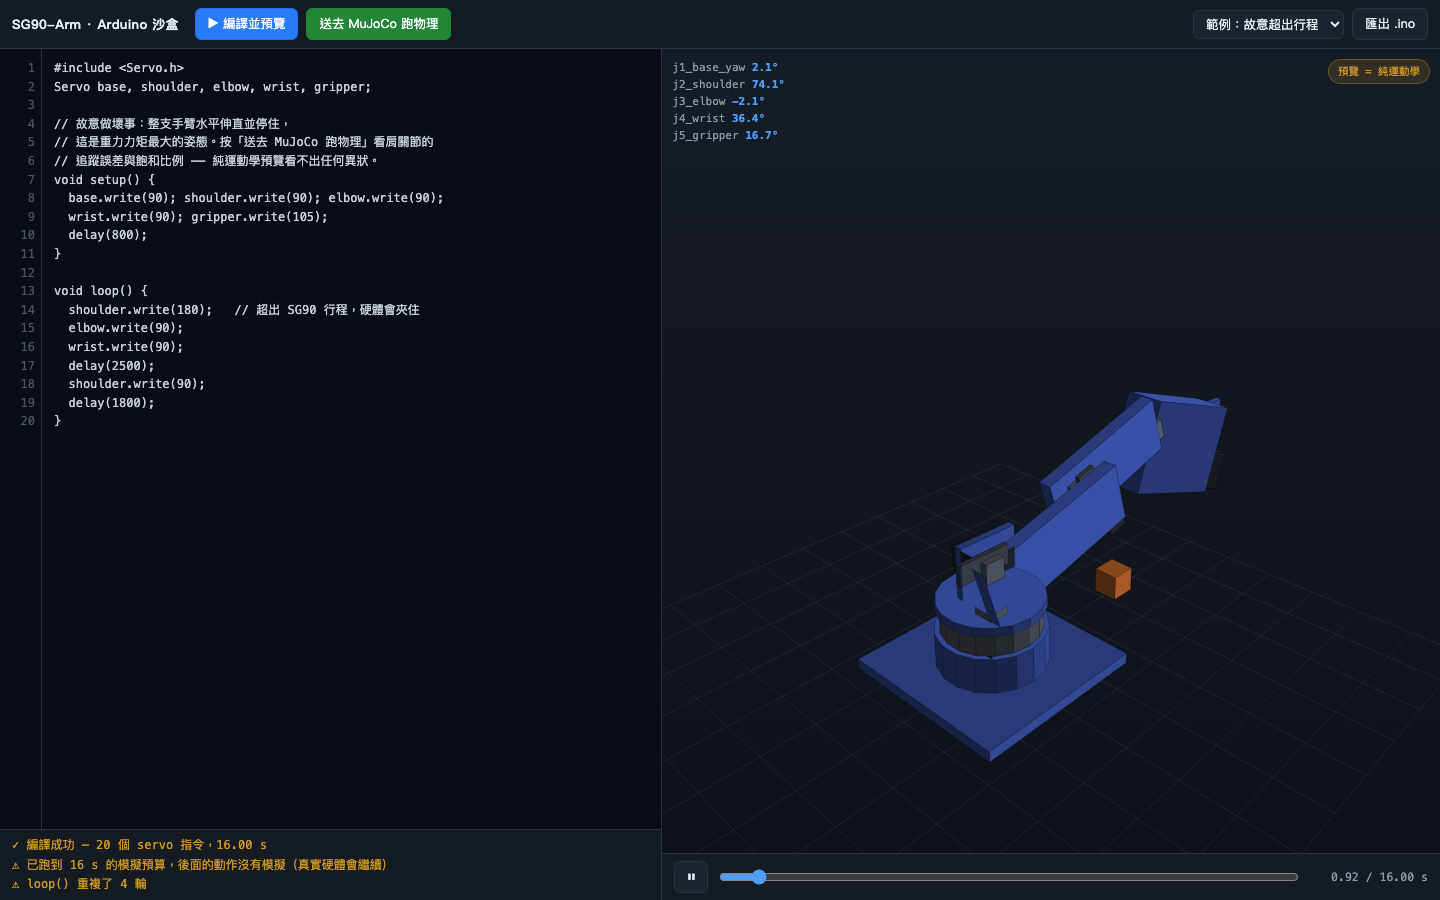
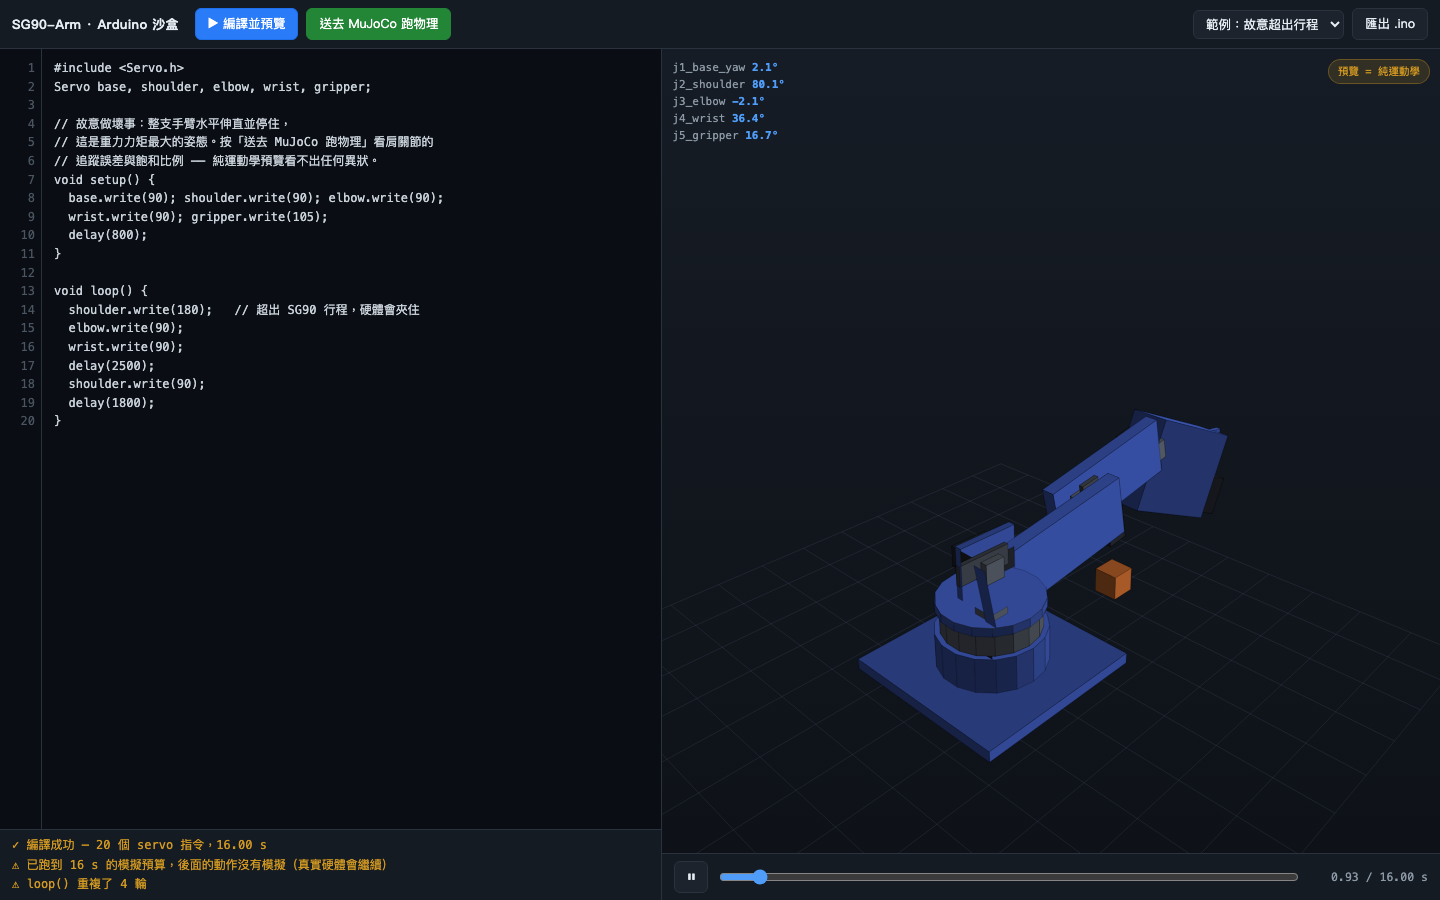
B3 FT5425BL URDF/MJCF：極限是機構與舵機的交集
j1 迴轉 舵機綁住 ±90、j2 肩 機構綁住 ±75、j3 肘 舵機綁住 ±90。
記錄「哪一邊綁住」比記錄數字重要：機構綁住＝改幾何可放寬，
舵機綁住＝只能重新索引舵盤（拿一端換另一端）。

#49 掃出的肩關節行程連續三次是 0（三個不同原因）
- 跨接槽用叉臂半邊長 23.9 挖，註解寫 half-diagonal，真值 29.7
- 舵機截面 X/Y 寫反，零位相交 4667mm³
- 耳片掃掠半徑 41.5 > 肩軸離轉盤面的 36
三者共通：都是拍出來的數字。已全部改為推導。
另修結構認知錯誤：耳片在關節下方也接起來，使轉盤變 3 個分離實體；
真實 U 型接頭是舵機上方合攏、下方留自由板。

#50 docstring 宣稱 MuJoCo 有關節速度上限（它沒有）
改由 B4 迴圈執行，並加檢查驗 MAX_RADPS 有被匯出——
只寫在註解裡的限制等於不存在。

新增 B3 驗證層 27 項（變異測試 5/5）；全套 391/391。

Changed region(s): [[0.7188, 0.4356, 0.875, 0.6222], [0.7188, 0.6222, 0.75, 0.6533]]

diff --git a/servo-arm/report.html b/servo-arm/report.html
@@ -991,7 +991,7 @@ j4 12.96°→<strong>8.70°</strong>、j5 10.27°→<strong>8.68°</strong>。
 ../.venv/bin/python mutation_check.py     # 驗證套件本身有效</code></pre>
 
 <h2 id="failures">失敗紀錄</h2>
-<p class="lead">前 22 項。#23–#33 由驗證系統挖出，記在<a href="#vv">上一節</a>；#34 是替第二支手臂做扭矩預算時挖出的，記在<a href="#torque">扭矩包絡</a>那節；<strong>#35–#43 是做 NEMA 17 步進模擬與韌體時挖出的</strong>，記在 <a href="#nema17">NEMA 17 手臂</a>那節；<strong>#44–#47 是查證致動器資料時挖出的</strong>，記在 <a href="#actuators">致動器資料查證</a>那節；<strong>#48 是第三支手臂定尺寸時回頭發現的、關於第一支手臂的事</strong>，記在 <a href="#ft5425bl">FT5425BL 手臂</a>那節——其中四個是連續的錯模型，每個都「會跑、會印出合理的數字」。標 <span class="tag silent">靜默</span> 的是<strong>不會報錯</strong>的錯誤——
+<p class="lead">前 22 項。#23–#33 由驗證系統挖出，記在<a href="#vv">上一節</a>；#34 是替第二支手臂做扭矩預算時挖出的，記在<a href="#torque">扭矩包絡</a>那節；<strong>#35–#43 是做 NEMA 17 步進模擬與韌體時挖出的</strong>，記在 <a href="#nema17">NEMA 17 手臂</a>那節；<strong>#44–#47 是查證致動器資料時挖出的</strong>，記在 <a href="#actuators">致動器資料查證</a>那節；<strong>#48–#50 是第三支手臂上挖出的</strong>（#48 還是回頭關於第一支手臂的），記在 <a href="#ft5425bl">FT5425BL 手臂</a>那節——其中四個是連續的錯模型，每個都「會跑、會印出合理的數字」。標 <span class="tag silent">靜默</span> 的是<strong>不會報錯</strong>的錯誤——
 工具鏈照樣產出看起來完全正常的結果，只有量測才抓得到。這類佔了一半以上。</p>
 
 <div class="card fail">
@@ -1987,7 +1987,7 @@ T7 黃金回歸<strong>18/18 全過</strong>。但實際上酬載舉高變了 0.
 不是讓它假裝通過。</strong></p>
 </div>
 
-<h2 id="ft5425bl">第三支手臂：FT5425BL 標準舵機（B1 尺寸決策、B2 CAD）</h2>
+<h2 id="ft5425bl">第三支手臂：FT5425BL 標準舵機（B1 尺寸、B2 CAD、B3 URDF／MJCF）</h2>
 <p class="lead">扭矩預算用「維持與 SG90 相同的扭矩佔比」把伸距外推到 306 mm。
 實際把靜力算一遍——<strong>那個伸距空載就用掉連續額定的 88%</strong>。
 問題不在算術，在於<strong>那個「相同的佔比」本身指的是什麼</strong>。</p>
@@ -2110,6 +2110,71 @@ FT5425BL 只有 67.6 g：</p>
 <p><strong>67.9% 連續額定</strong>（B1 用估計質量算的是 69.9%）。
 實測連桿比估計重 10%，但質心比「連桿中點」的假設更靠內
 （上臂 42.6 mm 而非 52.5），兩者相抵之後比原估計還好一點。空載 43.7%。</p>
+
+<h3>B3 URDF／MJCF：極限有兩個作者</h3>
+<p>NEMA 17 那支的關節極限只有一個來源——步進沒有自身行程，機構就是極限。
+這支相反：<strong>舵機有硬性的 180°</strong>，怎麼樣都過不去。
+所以每個關節的極限是兩個獨立約束的<strong>交集</strong>：</p>
+<table>
+<tr><th style="width:130px">關節</th><th class="num">機構掃描</th><th class="num">舵機行程</th><th class="num">生效</th><th>綁住的是</th></tr>
+<tr><td>j1 迴轉</td><td class="num">±150°</td><td class="num">±90°</td><td class="num">±90°</td><td><strong>舵機</strong></td></tr>
+<tr><td>j2 肩</td><td class="num">±75°</td><td class="num">±90°</td><td class="num">±75°</td><td><strong>機構</strong></td></tr>
+<tr><td>j3 肘</td><td class="num">±95°</td><td class="num">±90°</td><td class="num">±90°</td><td><strong>舵機</strong></td></tr>
+</table>
+<p>取交集不是重點，<strong>記錄「哪一邊綁住」才是</strong>——兩者的意思相反：
+機構綁住代表<strong>改幾何可以放寬</strong>；舵機綁住代表<strong>幾何幫不上忙</strong>，
+只能重新索引舵盤，而那是拿一端換另一端。
+只報一個數字而不說是誰造成的，就會有人去加厚一面牆，
+想買一段舵機本來就不會給的行程。</p>
+
+<div class="card fail">
+<h4>#49 掃出來的肩關節行程是 0°——連續三次，三個不同原因 <span class="tag fixed">已修正</span></h4>
+<p>掃描把實體轉到干涉為止。前三次跑出來的肩關節範圍是
+<strong>[+5, −5]</strong>（負寬度）、然後 <strong>[0, 0]</strong>、再一次 <strong>[0, 0]</strong>。
+每一次都是不同的原因，而且每修好一個才看得見下一個：</p>
+<table>
+<tr><th style="width:210px">第幾次</th><th>根因</th></tr>
+<tr><td>一：[+5, −5]</td><td>跨接槽用叉臂的<strong>半邊長</strong>（23.9）挖，
+  註解卻寫「half-diagonal」——真值是 <strong>29.7</strong>，叉臂角落卡在輪轂實心區</td></tr>
+<tr><td>二：[0, 0]</td><td>零位就相交 <strong>4667 mm³</strong>：
+  舵機截面的 <strong>X/Y 寫反了</strong>（舵機 40.6 在 X、20.0 在 Y，
+  我寫成 X=26.8 裝不下、Y=46.6 撞耳片）</td></tr>
+<tr><td>三：[0, 0]</td><td>耳片往下伸 34.3，旋轉時最低點掃到軸下 <strong>41.5</strong>，
+  而肩軸只在轉盤面上 36——耳片掃到圓盤</td></tr>
+</table>
+<p>共通點：<strong>這三個數字全是我拍的</strong>，不是從它們要配合的東西推導出來的。
+改成推導之後：</p>
+<pre>YOKE_R      = √((SB_L/2+WALL)² + (SB_H/2+WALL)²)   叉臂在輪轂座標系掃出的圓盤
+HUB_REACH   = YOKE_R + 間隙 + 4                     耳片必須包過那個圓盤
+HUB_SWEPT_R = √((SB_L/2+WALL)² + HUB_REACH²)        耳片自己掃出的半徑
+Z_J2        = 轉盤面 + HUB_SWEPT_R + 1.5            肩軸高度</pre>
+<p>還有一個結構認知的錯誤：我把耳片在關節<strong>下方</strong>也接起來，
+於是叉臂沒有路徑往下接回轉盤——轉盤因此變成 3 個分離的實體。
+真實的伺服 U 型接頭是<strong>在舵機上方合攏、下方留兩片自由板</strong>，
+把跨接槽加上向下的開口才對。</p>
+</div>
+
+<div class="card fail">
+<h4>#50 docstring 宣稱了 MuJoCo 做不到的事 <span class="tag silent">靜默</span> <span class="tag fixed">已修正</span></h4>
+<p>MJCF 產生器的說明寫著速度上限「以關節速度限制放進去」。
+<strong>MuJoCo 沒有關節速度上限這種東西</strong>，而程式也確實沒寫進 XML——
+那句話是一個只存在於散文裡的限制。</p>
+<p>0.08 s/60° = 13.1 rad/s，在 190 mm 的手臂上是尖端 2.5 m/s。
+忽略它，模擬就會允許手臂做出舵機做不到的動作。</p>
+<p><strong>修法</strong>：說清楚 MuJoCo 放不下，改由 B4 的模擬迴圈執行——
+和步進的發步率上限放在同一個地方。並在 B3 加一條檢查驗
+<code>MAX_RADPS</code> 有被匯出，因為<strong>只寫在註解裡的限制等於不存在</strong>。</p>
+</div>
+
+<h4>B3 驗證層（27 項，變異測試 5/5）</h4>
+<p>刻意把幾條拆成兩句話，因為「數字對」和「關係對」不是同一件事：</p>
+<ul>
+<li>極限 = 交集　<strong>以及</strong>　極限不超出任一來源
+——後者在「兩邊用同樣的錯誤算法」時仍會擋下</li>
+<li>forcerange = 連續額定　<strong>以及</strong>　forcerange ≠ 堵轉值
+——若哪天有人把 0.932 改標成堵轉，只驗前者不會發現</li>
+<li>「綁住的是誰」必須與它宣稱總結的兩個範圍相符——<strong>過期的欄位比沒有更糟</strong></li>
+</ul>
 
 <div class="card">
 <h4>這支手臂的尺寸是暫定的，而且程式會一直這樣說</h4>

diff --git a/servo-arm/index.html b/servo-arm/index.html
@@ -61,8 +61,8 @@ footer{margin-top:36px;padding-top:16px;border-top:1px solid var(--line);
   <div><b>5</b><span>SG90 伺服馬達</span></div>
   <div><b>203 g</b><span>整機質量</span></div>
   <div><b>38%</b><span>最壞姿態堵轉佔用</span></div>
-  <div><b>340</b><span>驗證檢查（全過）</span></div>
-  <div><b>48</b><span>記錄在案的失敗</span></div>
+  <div><b>391</b><span>驗證檢查（全過）</span></div>
+  <div><b>50</b><span>記錄在案的失敗</span></div>
 </div>
 
 <div class="cards">
@@ -83,7 +83,7 @@ footer{margin-top:36px;padding-top:16px;border-top:1px solid var(--line);
   <a class="card" href="report.html#vv"><span class="bar b2" style="background:#d29922"></span>
     <span class="ic">🔬</span>
     <h2>驗證系統</h2>
-    <p>22 層測試（幾何／解析解／不變量／蛻變／差異／收斂／性質／回歸／可組裝／可列印／網頁／靜態發布）共 340 項，
+    <p>23 層測試（幾何／解析解／不變量／蛻變／差異／收斂／性質／回歸／可組裝／可列印／網頁／靜態發布）共 391 項，
        外加變異測試驗證這套測試本身有效。</p>
     <span class="go">看報告 →</span></a>
 
@@ -91,7 +91,7 @@ footer{margin-top:36px;padding-top:16px;border-top:1px solid var(--line);
     <span class="ic">📓</span>
     <h2>專案記錄頁</h2>
     <p>完整過程：SG90 幾何量測、手臂設計、模擬環境調查、扭矩分析、
-       模擬影片，以及 48 項失敗紀錄與已知限制。</p>
+       模擬影片，以及 50 項失敗紀錄與已知限制。</p>
     <span class="go">開啟 →</span></a>
 </div>
 
